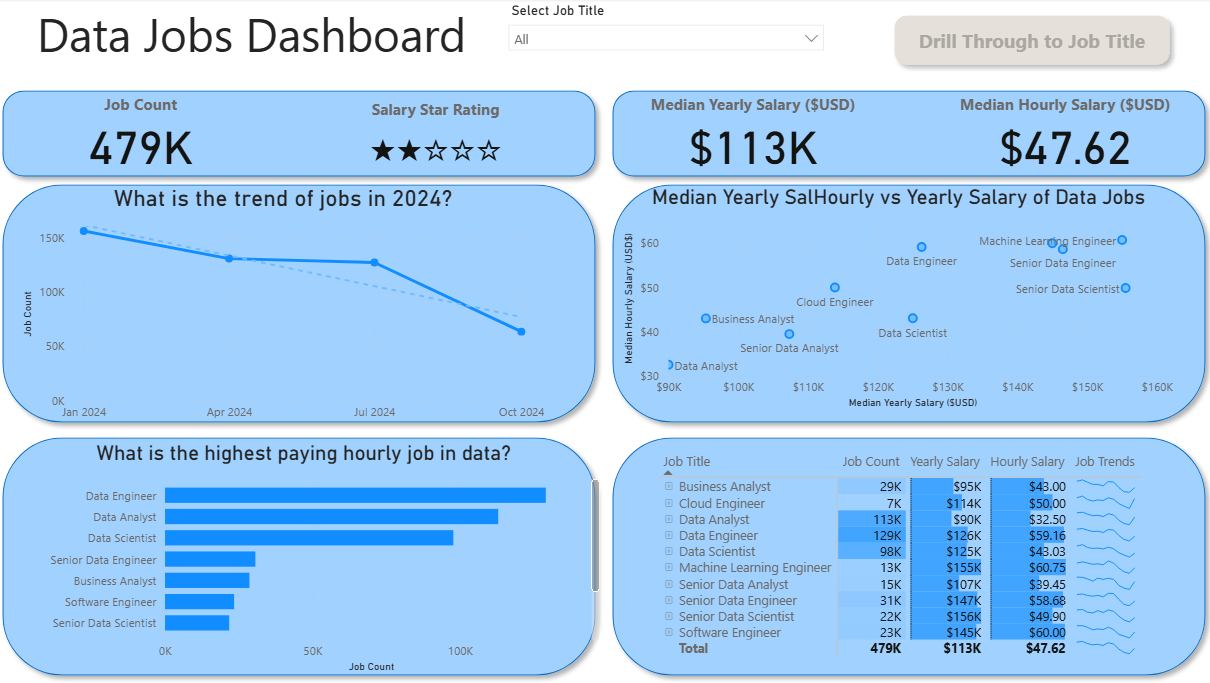
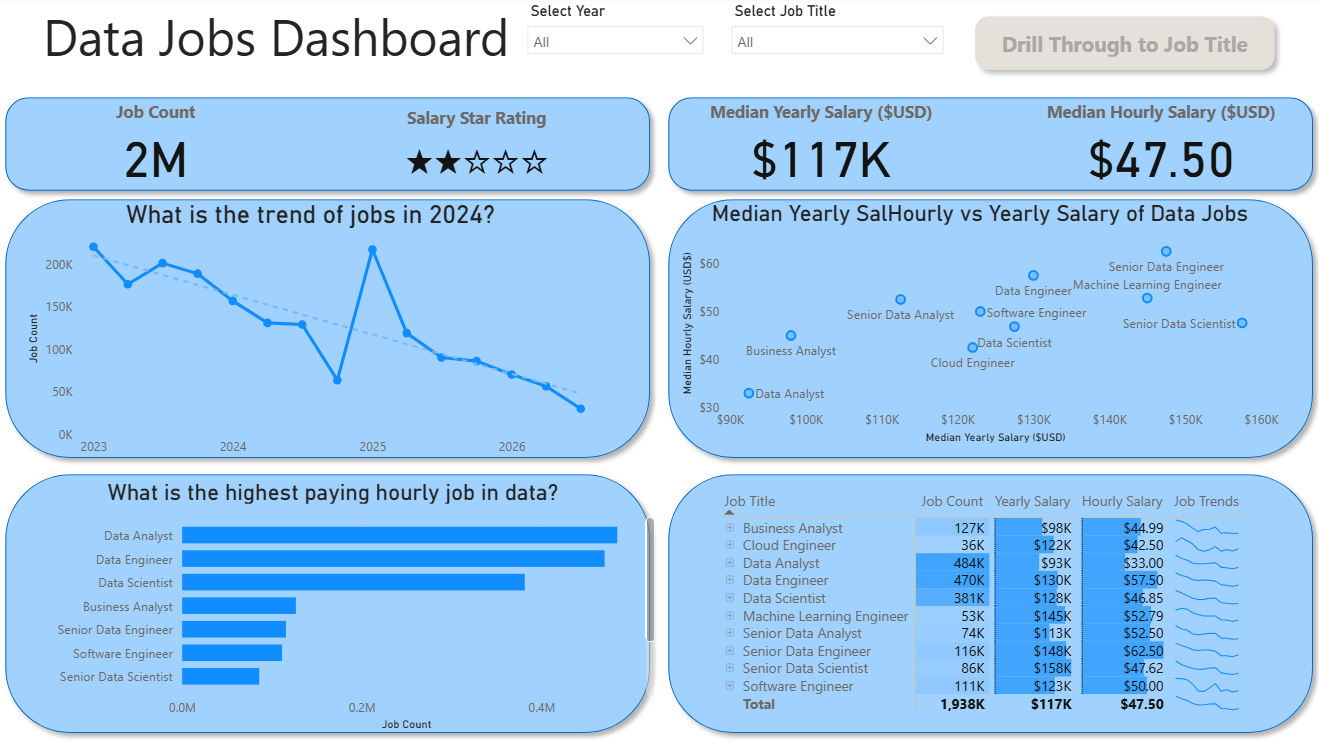
Update the README and the screenshots
The data underlying the dashboards were updated: an up-to-date data was used. It was reflected in the README and the screenshots.

diff --git a/README.md b/README.md
@@ -4,7 +4,7 @@
 
 ## Introduction
 
-These dashboards were created in the context of the [**Power BI for Data Analytics**](https://www.lukebarousse.com/powerbi) course. They facilitate job searching for professionals working in the fields of data science, data engineering, and data analytics. The data powering the dashboards comes from a *real-world dataset of job postings for various data-related roles from 2023 through December 2025*. This project provides a single, easy-to-use interface to explore data jobs market trends and compensation.
+These dashboards were created in the context of the [**Power BI for Data Analytics**](https://www.lukebarousse.com/powerbi) course. They facilitate job searching for professionals working in the fields of data science, data engineering, and data analytics. The data powering the dashboards comes from a *real-world dataset of job postings for various data-related roles from 2023 through August 2026*. This project provides a single, easy-to-use interface to explore data jobs market trends and compensation.
 
 ## Skills Showcased
 
